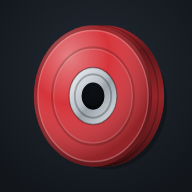
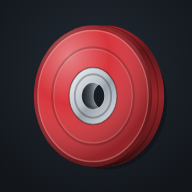
Card com a anilha 3D em marca d'água e furo 3D vazado (v1.24) (#19)
- card 'Treino de hoje': a anilha sai do lado e vira marca d'água 3D grande, cortada pela borda;
  título maior (40 px); com o card virado a marca quase some para não atrapalhar a lista
- anilha 3D: o furo mostra a parede interna do cubo e é vazado (vê-se o fundo pela sobreposição
  das aberturas da frente e de trás), com borda clara; máscara e gradiente compartilhados no index.html
- virada do card não depende do fim da animação (em segundo plano ela pode não terminar)
- ícones do app regerados com o furo novo

Changed region(s): [[0.4062, 0.4062, 0.5312, 0.5938], [0.5312, 0.4688, 0.5625, 0.5312]]

diff --git a/js/anilha.js b/js/anilha.js
@@ -2,14 +2,17 @@
    - 3D (grandes: tela Hoje e resumo): olímpica de borracha girada levemente no eixo vertical, com a espessura à direita.
    - De frente (pequenas: semana, histórico, seletores): aro colorido e a letra no cubo de metal, legível até 30 px.
    As cores vêm das variáveis do tema (--c = cor do treino, --on = cor do texto sobre ela), via classe L-A, L-B…
-   Os gradientes compartilhados (#an-luz, #an-me, #an-fu, #an-lat) ficam num <svg> escondido no início do index.html. */
+   Os gradientes compartilhados (#an-luz, #an-me, #an-fu, #an-lat, #an-parede) e a máscara do furo vazado (#an-vazado)
+   ficam num <svg> escondido no início do index.html.
+   Furo na 3D: a face está girada e a espessura aparece à direita, então pelo furo se vê a parede interna do cubo
+   (à esquerda) e, onde a abertura da frente e a de trás se sobrepõem, o fundo atrás da anilha (vazado). */
 import { esc } from "./util.js";
 
 const F = 'font-family="Barlow Condensed, Arial Narrow, sans-serif" font-weight="700"';
 const COR = 'style="fill:var(--c)"';
 
 // face da anilha (coordenadas 0–100); detalhada = furo, sulco e "TREINO"; senão a letra vai no cubo
-function face(L, detalhada, texto=true){
+function face(L, detalhada, texto=true, d3=false){
   const aro = `<circle cx="50" cy="50" r="47" ${COR}/><circle cx="50" cy="50" r="47" fill="url(#an-luz)"/>
     <circle cx="50" cy="50" r="45.6" fill="none" stroke="#000" stroke-opacity=".28" stroke-width="2.8"/>
     <circle cx="50" cy="50" r="43.8" fill="none" stroke="#fff" stroke-opacity=".22" stroke-width="1"/>`;
@@ -20,7 +23,8 @@ function face(L, detalhada, texto=true){
     <circle cx="50" cy="50" r="31.3" fill="none" stroke="#fff" stroke-opacity=".14" stroke-width="1"/>
     <circle cx="50" cy="50" r="19" fill="url(#an-me)" stroke="#000" stroke-opacity=".35" stroke-width="1"/>
     <circle cx="50" cy="50" r="14.5" fill="none" stroke="#000" stroke-opacity=".25" stroke-width="1.4"/>
-    <circle cx="50" cy="50" r="9" fill="#0d1014"/><circle cx="50" cy="50" r="9" fill="url(#an-fu)"/>
+    ${d3 ? `<circle cx="50" cy="50" r="9" fill="url(#an-parede)"/><circle cx="50" cy="50" r="9" fill="url(#an-fu)" opacity=".55"/><circle cx="50" cy="50" r="9" fill="none" stroke="#fff" stroke-opacity=".35" stroke-width=".8"/>`
+         : `<circle cx="50" cy="50" r="9" fill="#0d1014"/><circle cx="50" cy="50" r="9" fill="url(#an-fu)"/>`}
     ${texto?`<text x="50" y="27.5" text-anchor="middle" font-size="19" ${F} style="fill:var(--on)">${L}</text>
     <text x="50" y="81" text-anchor="middle" font-size="7.5" font-weight="600" fill-opacity=".85" letter-spacing=".6" font-family="Barlow Condensed, Arial Narrow, sans-serif" style="fill:var(--on)">TREINO</text>`:""}`;
 }
@@ -34,5 +38,5 @@ export function anilhaSVG(letra, { d3=false, detalhada=false, texto=true } = {})
     <ellipse cx="${cx+esp+2}" cy="54" rx="${rx}" ry="45" fill="#000" fill-opacity=".25"/>
     <path d="${lado}" ${COR}/><path d="${lado}" fill="url(#an-lat)"/>
     <path d="M${cx+esp/2} 3 A${rx} 47 0 0 1 ${cx+esp/2} 97" fill="none" stroke="#000" stroke-opacity=".25" stroke-width=".8"/>
-    <g transform="translate(${cx} 50) scale(${sx} 1) translate(-50 -50)">${face(L, detalhada, texto)}</g></svg>`;
+    <g transform="translate(${cx} 50) scale(${sx} 1) translate(-50 -50)"><g ${detalhada?'mask="url(#an-vazado)"':""}>${face(L, detalhada, texto, true)}</g></g></svg>`;
 }

diff --git a/js/telas/hoje.js b/js/telas/hoje.js
@@ -26,9 +26,10 @@ export function viewHoje(){
   const seq = proxima();
   const qtd = `${t.itens.length} ${t.itens.length>1?"exercícios":"exercício"}`;
   $("#view").innerHTML = `
-  <section class="hoje-card L-${esc(letra)}" id="cardHoje" role="button" tabindex="0" aria-expanded="${!!verPrevia}"
+  <section class="hoje-card marcado L-${esc(letra)}" id="cardHoje" role="button" tabindex="0" aria-expanded="${!!verPrevia}"
     aria-label="Treino ${esc(letra)}: toque para ${verPrevia?"voltar":"ver os exercícios"}">
-    <div class="face frente" ${verPrevia?"hidden":""}>${plate(letra,"md semtexto")}
+    <div class="marca" aria-hidden="true">${plate(letra,"md semtexto")}</div>
+    <div class="face frente" ${verPrevia?"hidden":""}>
       <div style="flex:1;min-width:0"><p class="meta">${titulo}</p><h2>Treino ${esc(letra)}</h2>
       <p class="meta">${esc(t.foco)} · ~${Math.round(totalMin(t))} min${tEx?` · express ~${Math.round(totalMin(tEx))} min`:""}</p>
       <span class="virar">${icone("list")} ${qtd}</span></div>
@@ -65,10 +66,12 @@ function virarCard(c){
     c.setAttribute("aria-expanded",String(verPrevia)); c.setAttribute("aria-label",`${c.querySelector("h2").textContent}: toque para ${verPrevia?"voltar":"ver os exercícios"}`); };
   if(!movimentoOk() || !c.animate){ trocar(); return; }
   const h0=c.offsetHeight, p="perspective(900px) ";
-  c.animate([{transform:p+"rotateY(0)"},{transform:p+"rotateY(90deg)"}],{duration:150, easing:"ease-in"}).onfinish=()=>{
-    trocar(); const h1=c.offsetHeight;
-    c.animate([{transform:p+"rotateY(-90deg)", height:h0+"px", overflow:"hidden"},{transform:p+"rotateY(0)", height:h1+"px", overflow:"hidden"}],{duration:280, easing:"cubic-bezier(.22,1,.36,1)"});
-  };
+  // a troca de face não pode depender só do fim da animação (em segundo plano ela pode não terminar)
+  let trocou=false;
+  const meio=()=>{ if(trocou) return; trocou=true; trocar(); const h1=c.offsetHeight;
+    c.animate([{transform:p+"rotateY(-90deg)", height:h0+"px", overflow:"hidden"},{transform:p+"rotateY(0)", height:h1+"px", overflow:"hidden"}],{duration:280, easing:"cubic-bezier(.22,1,.36,1)"}); };
+  c.animate([{transform:p+"rotateY(0)"},{transform:p+"rotateY(90deg)"}],{duration:150, easing:"ease-in"}).onfinish=meio;
+  setTimeout(meio, 200);
 }
 export let verPrevia=false;
 export function pesoPanel(){

diff --git a/index.html b/index.html
@@ -31,6 +31,9 @@
   <linearGradient id="an-me" x1="0" y1="0" x2="1" y2="1"><stop offset="0" stop-color="#F4F6F8"/><stop offset=".45" stop-color="#B9C0C7"/><stop offset=".55" stop-color="#9AA2AA"/><stop offset="1" stop-color="#E2E6EA"/></linearGradient>
   <radialGradient id="an-fu" cx="50%" cy="35%" r="65%"><stop offset="0" stop-color="#000" stop-opacity="0"/><stop offset=".7" stop-color="#000" stop-opacity=".2"/><stop offset="1" stop-color="#000" stop-opacity=".85"/></radialGradient>
   <linearGradient id="an-lat" x1="0" y1="0" x2="0" y2="1"><stop offset="0" stop-color="#000" stop-opacity=".25"/><stop offset=".18" stop-color="#000" stop-opacity=".55"/><stop offset=".5" stop-color="#000" stop-opacity=".3"/><stop offset=".82" stop-color="#000" stop-opacity=".55"/><stop offset="1" stop-color="#000" stop-opacity=".75"/></linearGradient>
+  <linearGradient id="an-parede" x1="0" y1="0" x2="1" y2="0"><stop offset="0" stop-color="#1b2026"/><stop offset=".35" stop-color="#4a525b"/><stop offset=".62" stop-color="#9aa2aa"/><stop offset="1" stop-color="#d9dee3"/></linearGradient>
+  <clipPath id="an-furo-frente"><circle cx="50" cy="50" r="9"/></clipPath>
+  <mask id="an-vazado" maskUnits="userSpaceOnUse" x="-10" y="-10" width="120" height="120"><rect x="-10" y="-10" width="120" height="120" fill="#fff"/><circle cx="59.5" cy="50" r="9" fill="#000" clip-path="url(#an-furo-frente)"/></mask>
 </defs></svg>
 <header class="top">
   <div class="wrap">

diff --git a/css/telas.css b/css/telas.css
@@ -134,3 +134,12 @@ h1.page{font-family:var(--display);font-size:30px;margin:8px 0 4px}
 .escolher button[aria-pressed="true"] .plate{outline:3px solid var(--c);outline-offset:3px}
 .escolher button[aria-pressed="true"]{color:var(--ink)}
 .escolher button:active .plate{transform:scale(.82)}
+
+/* Card com a anilha 3D como marca d'água, grande e cortada pela borda direita */
+.hoje-card.marcado{position:relative;overflow:hidden;isolation:isolate;padding:20px 18px}
+.hoje-card.marcado .face{position:relative;z-index:1}
+.hoje-card.marcado h2{font-size:40px}
+.hoje-card.marcado .frente{padding:2px 0}
+.hoje-card .marca{position:absolute;z-index:0;width:300px;height:300px;right:-95px;top:50%;transform:translateY(-50%);opacity:.22;pointer-events:none;transition:opacity .25s}
+.hoje-card .marca .plate.md{--size:300px}
+.hoje-card[aria-expanded="true"] .marca{opacity:.07}

diff --git a/js/versao.js b/js/versao.js
@@ -1,3 +1,3 @@
 /* Versão do app. scripts/aplicar-ficha.mjs atualiza; o CI exige aumento a cada mudança. */
-export const APP_VERSAO = "1.23";
+export const APP_VERSAO = "1.24";
 export const APP_DATA = "2026-11-07";
